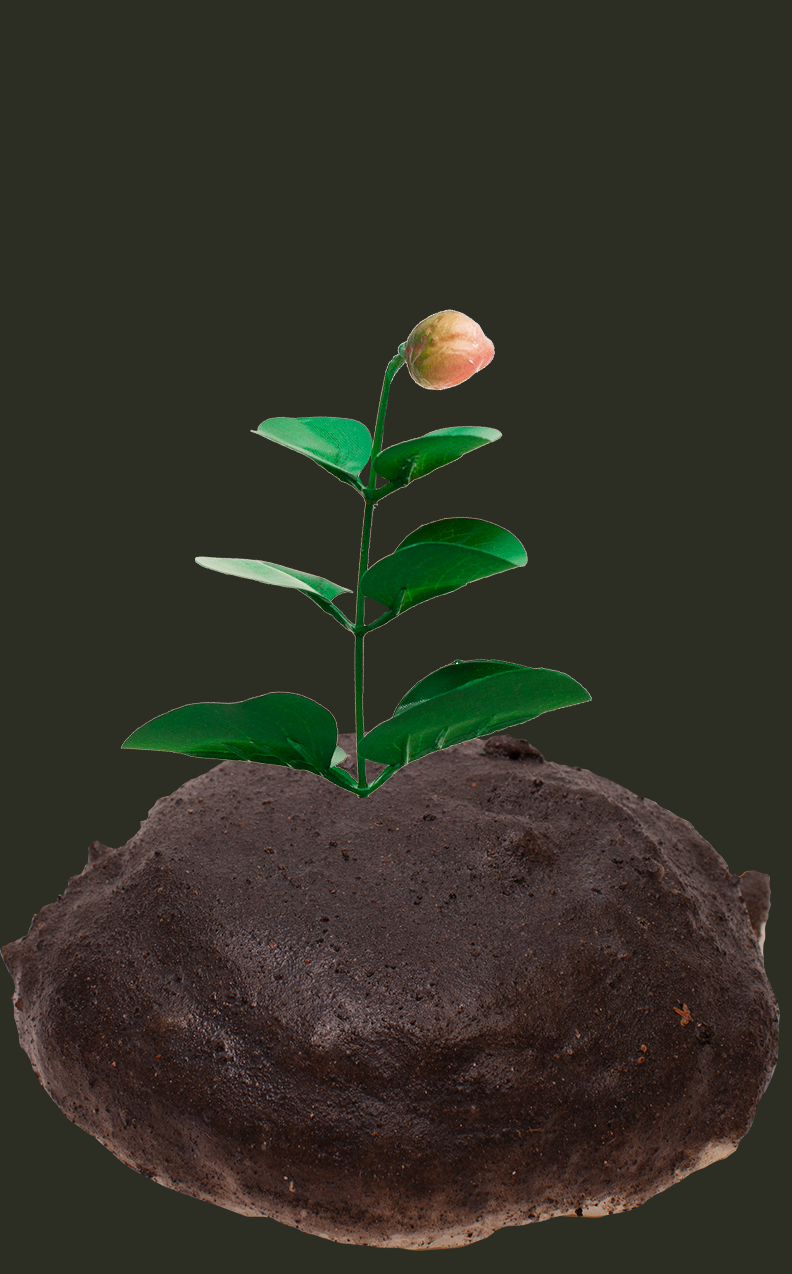
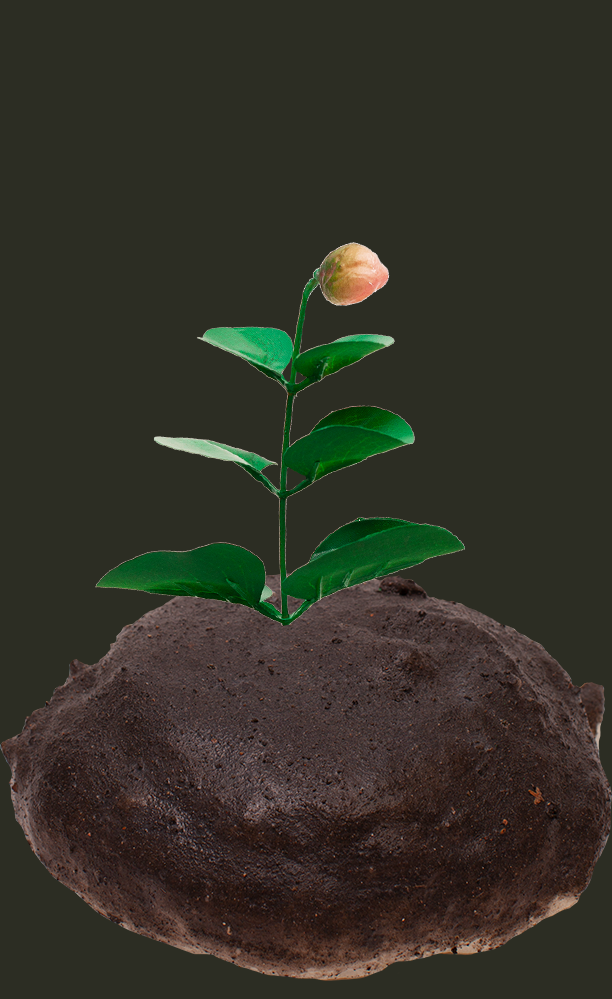
nomainīju augošo puķu izmērus. KAS VĒL var būt nepareizi nu

diff --git a/scripts/4.js b/scripts/4.js
@@ -23,7 +23,7 @@ $(document).ready(function(){
 		$("#divi").addClass("visible2")
 
 	$(".story").click(function(){
-		$(".story").css("margin-top", "8%")
+		$(".story").css("margin-top", "10%")
 		writethis("my reality \n quickly became focused \n on crafting an image of myself ", ".story")
 		$("#divi").removeClass("visible2")
 		$("#divi").addClass("transparent2")
@@ -32,7 +32,7 @@ $(document).ready(function(){
 
 	$(".story").click(function(){
 		writethis("for people I didn't know \n to look at", ".story")
-		$(".story").css("margin-top", "6%")
+		$(".story").css("margin-top", "8%")
 		$("#tris").removeClass("visible2")
 		$("#tris").addClass("transparent2")
 		$("#cetri").removeClass("transparent2")
@@ -40,14 +40,14 @@ $(document).ready(function(){
 
 	$(".story").click(function(){
 		writethis("Every word I said \n and every picture I posted", ".story")
-		$(".story").css("margin-top", "1.2%")
+		$(".story").css("margin-top", "4%")
 		$("#cetri").removeClass("visible2")
 		$("#cetri").addClass("transparent2")
 		$("#pieci").removeClass("transparent2")
 		$("#pieci").addClass("visible2")
 
 	$(".story").click(function(){
-		$(".story").css("margin-top", "1.2%")
+		$(".story").css("margin-top", "4%")
 		writethis("was to build towards a weird \n romanticised version of myself", ".story")
 		$("#pieci").removeClass("visible2")
 		$("#pieci").addClass("transparent2")

diff --git a/css/4.css b/css/4.css
@@ -54,11 +54,11 @@ color: #FFD4DB;
 }
 
 .pukeaug {
-  max-height: 50%;
+  max-height: 100%;
   width: auto;
-  bottom: 26%;
+  bottom: -15%;
   position: absolute;
-  left: 35%;
+  left: 40%;
 }
 
 
@@ -100,7 +100,7 @@ color: #FFD4DB;
   display: none;
    height: 10%;
   font-size: 5vw;
-  margin-top: 2.5%;
+  margin-top: 7%;
   margin-left:10%;
   margin-right: 10%; 
   max-width: 80%;
